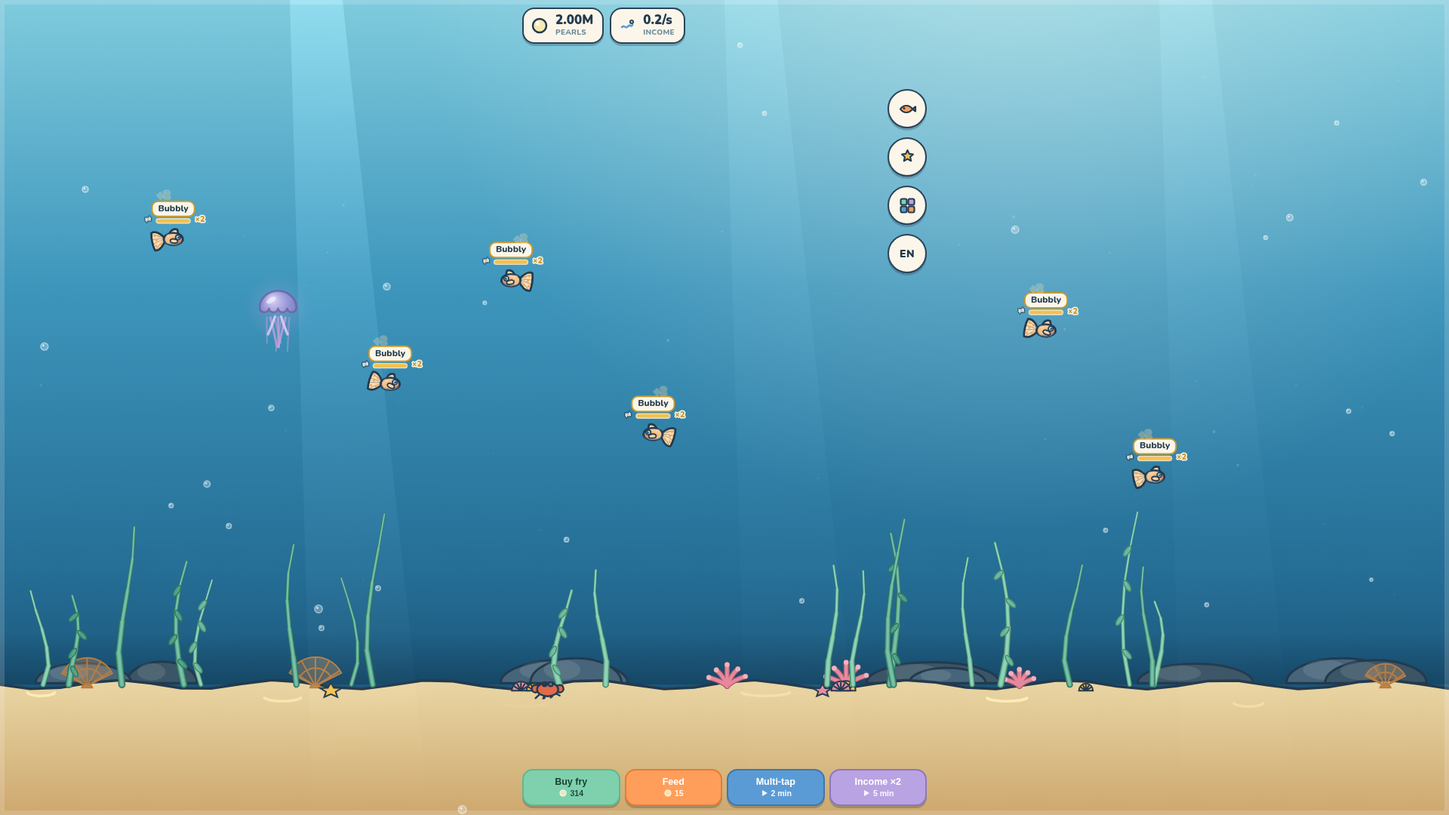
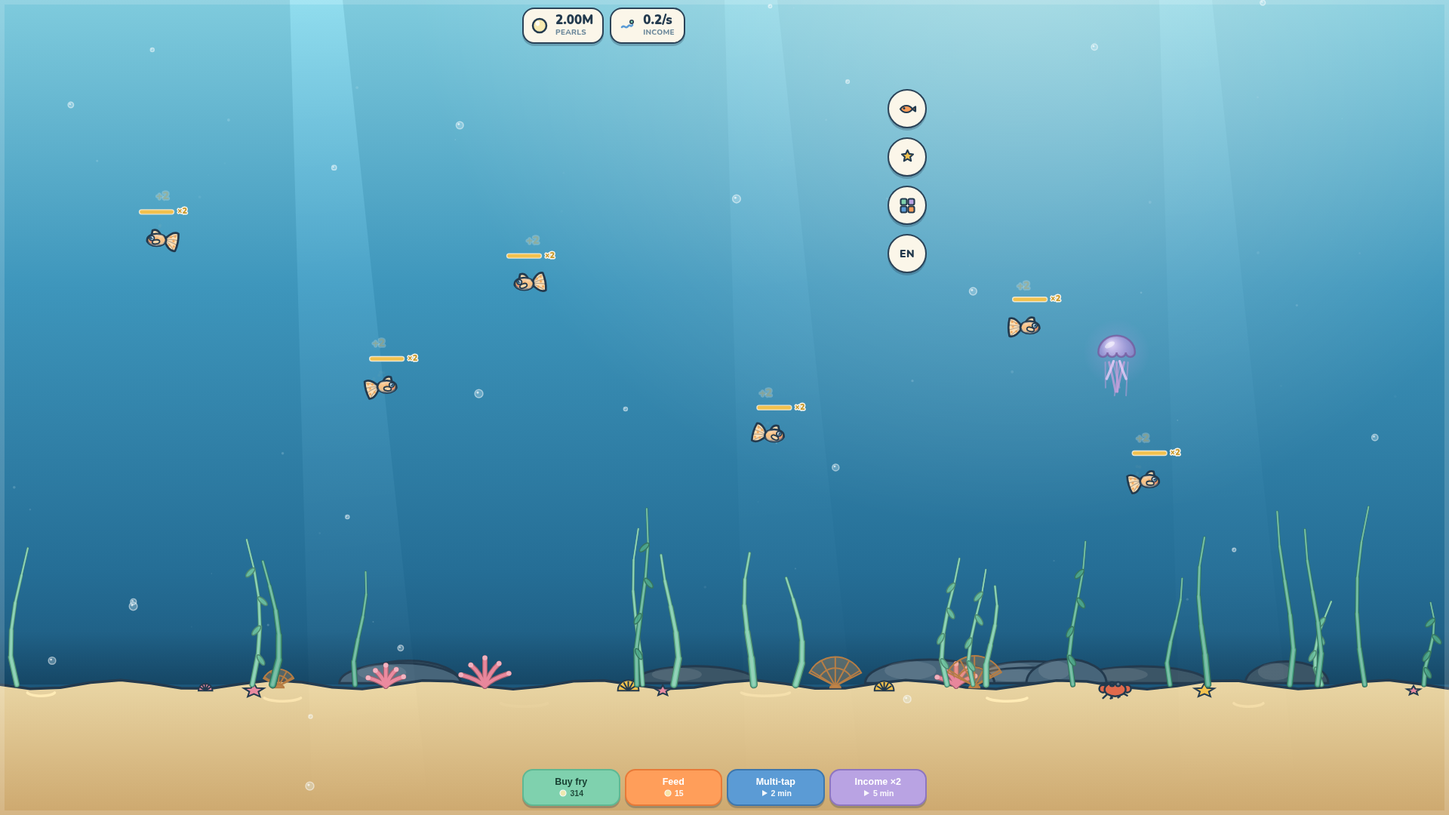
Аквариум: магазин по видам, чистый вид без плашек, реальные названия
- названия видов вместо уменьшительно-ласкательных: Гуппи, Золотая
  рыбка, Неон, Клоун, Моллинезия, Хирург, Сомик, Скалярия, Иглобрюх
  (EN: Guppy, Goldfish, Neon Tetra, Clownfish, Molly, Blue Tang,
  Catfish, Angelfish, Pufferfish)
- магазин: покупать можно любой уже открытый вид, а не только первый;
  цена уровня 30 × 3.2^lvl × 1.6^куплено — дороже, чем получить вид
  слиянием, поэтому мерж остаётся выгоднее, а покупка ускоряет старт;
  закрытые виды показаны с замком и подписью «получи его слиянием»,
  далёкие уровни в списке скрыты
- с рыбок убраны именные плашки: над рыбкой осталась только компактная
  шкала (голубая — рост малька, зелёная/золотая — сытость) с риской
  порога и бейджем ×2; имена видов остались в магазине и коллекции
- рыбки держатся плотнее (плашек больше нет) и ближе к краю экрана
- тексты карточки, CONSOLE-FIELDS и описания синхронизированы с новыми
  названиями и магазином; zip и скриншоты пересобраны

Claude-Session: https://claude.ai/code/session_01E1W4bJFq3d3FdtAVHT6PQt

diff --git a/index.html b/index.html
@@ -92,6 +92,10 @@
   .buy.owned{background:var(--mint);border-color:#5FB893}
 .hint{background:#EAF4F7;border:2px dashed var(--line);border-radius:12px;padding:9px 11px;
         font-weight:800;font-size:12.5px;color:var(--ink);margin-bottom:10px;line-height:1.25}
+  .hint.alt{background:#FFF3DF;border-style:solid;border-color:#E3C48A}
+  .row.locked{opacity:.6}
+  .row.locked .thumb{filter:grayscale(1) brightness(1.15)}
+  .lockico{font-size:20px;flex:none;padding:0 8px}
   .buy.wide{width:100%;margin-top:4px;padding:12px;font-size:15px}
   .coll{display:grid;grid-template-columns:repeat(3,1fr);gap:9px}
   .card{background:#FFF8E6;border:2.5px solid var(--line);border-radius:14px;padding:8px 4px 6px;
@@ -190,6 +194,10 @@ const STR = {
   lvl:{ru:"Ур.",en:"Lv."}, growing:{ru:"растут",en:"growing"}, adult:{ru:"взрослых",en:"adult"},
   perTap:{ru:"за тап",en:"per tap"},
   newFry:{ru:"Малёк поселился в аквариуме",en:"A fry joined your tank"},
+  locked:{ru:"Этот вид ещё не открыт — получи его слиянием",en:"Species not unlocked yet — merge to reveal it"},
+  inTank:{ru:"в аквариуме",en:"in tank"},
+  shopHint:{ru:"Покупать можно любой уже открытый вид. Новые открываются слиянием.",
+            en:"You can buy any species you have already unlocked. New ones come from merging."},
   newLevel:{ru:"Новый вид:",en:"New species:"},
   mergeHint:{ru:"Перетащи выросшую рыбку на такую же — получится рыбка выше уровнем",
              en:"Drag a grown fish onto a matching one to get a higher-level fish"},
@@ -207,15 +215,15 @@ const nm = sp => lang()==="ru"? sp.ru : sp.en;
 // ---------- Уровни рыб (мерж-цепочка: две выросшие рыбы Lv N -> малёк Lv N+1) ----------
 // tap — жемчуг за тап по взрослой рыбе; grow — сколько секунд растёт малёк этого уровня
 const LEVELS = [
-  {ru:'Пузырик', en:'Bubbly',   c1:'#F2A65A', c2:'#FFDDAF', shape:'guppy',  tap:1,     grow:5},
-  {ru:'Персик',  en:'Peachy',   c1:'#FF8C42', c2:'#FFC38A', shape:'gold',   tap:3,     grow:9},
-  {ru:'Нео',     en:'Neo',      c1:'#3BA7D6', c2:'#F25C69', shape:'neon',   tap:9,     grow:15},
-  {ru:'Пятныш',  en:'Spotty',   c1:'#FF7A2E', c2:'#FFFFFF', shape:'clown',  tap:26,    grow:24},
-  {ru:'Уголёк',  en:'Ember',    c1:'#4A4A57', c2:'#9AA0AC', shape:'molly',  tap:75,    grow:38},
-  {ru:'Небо',    en:'Sky',      c1:'#3E7CC4', c2:'#F2C14E', shape:'tang',   tap:210,   grow:58},
-  {ru:'Уса',     en:'Whiskers', c1:'#8A7358', c2:'#CBB89B', shape:'cat',    tap:600,   grow:85},
-  {ru:'Королёк', en:'Regal',    c1:'#F0E6C4', c2:'#4A6377', shape:'angel',  tap:1700,  grow:120},
-  {ru:'Пуфик',   en:'Puffy',    c1:'#C7D66B', c2:'#EEF5C6', shape:'puffer', tap:4800,  grow:170},
+  {ru:'Гуппи',        en:'Guppy',       c1:'#F2A65A', c2:'#FFDDAF', shape:'guppy',  tap:1,     grow:5},
+  {ru:'Золотая рыбка',en:'Goldfish',    c1:'#FF8C42', c2:'#FFC38A', shape:'gold',   tap:3,     grow:9},
+  {ru:'Неон',         en:'Neon Tetra',  c1:'#3BA7D6', c2:'#F25C69', shape:'neon',   tap:9,     grow:15},
+  {ru:'Клоун',        en:'Clownfish',   c1:'#FF7A2E', c2:'#FFFFFF', shape:'clown',  tap:26,    grow:24},
+  {ru:'Моллинезия',   en:'Molly',       c1:'#4A4A57', c2:'#9AA0AC', shape:'molly',  tap:75,    grow:38},
+  {ru:'Хирург',       en:'Blue Tang',   c1:'#3E7CC4', c2:'#F2C14E', shape:'tang',   tap:210,   grow:58},
+  {ru:'Сомик',        en:'Catfish',     c1:'#8A7358', c2:'#CBB89B', shape:'cat',    tap:600,   grow:85},
+  {ru:'Скалярия',     en:'Angelfish',   c1:'#F0E6C4', c2:'#4A6377', shape:'angel',  tap:1700,  grow:120},
+  {ru:'Иглобрюх',     en:'Pufferfish',  c1:'#C7D66B', c2:'#EEF5C6', shape:'puffer', tap:4800,  grow:170},
 ];
 const MAXLVL = LEVELS.length-1;
 const LV = l => LEVELS[Math.max(0,Math.min(MAXLVL,l))];
@@ -262,7 +270,10 @@ const ipsBase   = () => S.tank.reduce((a,f)=>a + LV(f.lvl).tap*0.04*f.g, 0);
 const ips       = () => ipsBase() * aerMult() * (x2On()?2:1);
 // цена малька растёт с каждой покупкой — главный сдерживающий фактор прогресса
 const priceMult = () => Math.max(0.5, 1 - 0.05*S.plant);
-const fishCost  = () => Math.max(1, Math.floor(30 * Math.pow(1.6, Math.max(0,S.bought-1)) * priceMult()));
+// цена рыбы уровня L: дороже, чем получить её мержем — покупка это ускорение, а не замена
+const fishCostAt = lvl => Math.max(1, Math.floor(30 * Math.pow(3.2, lvl) * Math.pow(1.6, Math.max(0,S.bought-1)) * priceMult()));
+const fishCost  = () => fishCostAt(0);
+const unlocked  = lvl => S.seen.includes(lvl);   // открытые виды доступны в магазине
 const foodCost  = () => Math.max(8, Math.ceil(tapBase()*2.5));
 const feedCost  = () => Math.floor(150 * Math.pow(1.7, S.feed));
 const aerCost   = () => Math.floor(400 * Math.pow(1.8, S.aer));
@@ -424,12 +435,14 @@ function doFeed(){
   refreshHud(); persist(true); sfx("tap");
   return true;
 }
-// Покупка малька — цена растёт с каждой покупкой
-function buyFish(){
-  const c=fishCost();
+// Покупка малька выбранного уровня (доступны только уже открытые виды)
+function buyFish(lvl){
+  lvl=Math.max(0,Math.min(MAXLVL, lvl|0));
+  if(!unlocked(lvl)){ toast(T("locked")); sfx("error"); return false; }
+  const c=fishCostAt(lvl);
   if(S.coins<c){ toast(T("need")); sfx("error"); return false; }
   S.coins-=c; S.bought++;
-  const f={lvl:0, g:0, sat:0};
+  const f={lvl, g:0, sat:0};
   S.tank.push(f); spawnSwimmer(f);
   if(S.tut===1) tutAdvance(2);
   refreshHud(); persist(true); sfx("buy");
@@ -511,25 +524,35 @@ function buildModal(kind){
   const body=$("mBody"); const can=(cost)=>S.coins>=cost;
   if(kind==='fish'){
     $("mTitle").textContent=T("fishTitle");
-    body.innerHTML='<div class="hint">'+T("mergeHint")+'</div>';
-    // сводка по уровням: сколько рыб каждого уровня и сколько уже выросло
+    body.innerHTML='<div class="hint">'+T("mergeHint")+'</div>'
+                  +'<div class="hint alt">'+T("shopHint")+'</div>';
     const byLvl={};
     S.tank.forEach(f=>{ (byLvl[f.lvl]=byLvl[f.lvl]||[]).push(f); });
-    Object.keys(byLvl).map(Number).sort((a,b)=>a-b).forEach(lvl=>{
-      const arr=byLvl[lvl], ready=arr.filter(grown).length;
-      const row=document.createElement('div'); row.className="row";
+    LEVELS.forEach((lv,lvl)=>{
+      const open=unlocked(lvl);
+      if(!open && lvl>maxLvl()+1) return;              // далёкие виды не показываем совсем
+      const arr=byLvl[lvl]||[], ready=arr.filter(grown).length;
+      const row=document.createElement('div'); row.className="row"+(open?"":" locked");
       const th=fishThumb(lvl); th.className="thumb"; row.appendChild(th);
       const info=document.createElement('div'); info.className="info";
-      info.innerHTML='<div class="nm">'+nm(LV(lvl))+' · '+T("lvl")+(lvl+1)+' ×'+arr.length+'</div>'
-        +'<div class="ds">+'+fmt(LV(lvl).tap)+' '+T("perTap")+' · '+T("adult")+': '+ready
-        +(arr.length-ready? ' · '+T("growing")+': '+(arr.length-ready):'')+'</div>';
+      info.innerHTML='<div class="nm">'+(open? nm(lv) : '???')+' · '+T("lvl")+(lvl+1)+'</div>'
+        +'<div class="ds">'+(open
+          ? '+'+fmt(lv.tap)+' '+T("perTap")+(arr.length? ' · '+T("inTank")+': '+arr.length
+              +(arr.length-ready? ' ('+T("growing")+': '+(arr.length-ready)+')':'') : '')
+          : T("locked"))+'</div>';
       row.appendChild(info);
+      if(open){
+        const c=fishCostAt(lvl);
+        const b=document.createElement('button'); b.className="buy"+(can(c)?"":" can-not");
+        b.textContent=fmt(c);
+        b.onclick=()=>{ if(buyFish(lvl)) buildModal('fish'); };
+        row.appendChild(b);
+      } else {
+        const lock=document.createElement('div'); lock.className="lockico"; lock.textContent='🔒';
+        row.appendChild(lock);
+      }
       body.appendChild(row);
     });
-    const b=document.createElement('button'); b.className="buy wide"+(can(fishCost())?"":" can-not");
-    b.textContent=T("buy")+" · "+fmt(fishCost());
-    b.onclick=()=>{ if(buyFish()) buildModal('fish'); };
-    body.appendChild(b);
   } else if(kind==='up'){
     $("mTitle").textContent=T("upTitle"); body.innerHTML="";
     const ups=[
@@ -867,10 +890,10 @@ function updateWorld(t,dt){
   });
   // рыбки не заплывают под боковую панель кнопок — их плашки остаются видимыми
   swimmers.forEach(s=>{
-    if(s.y < sideZoneBottom() && s.x > W-110){ s.x=W-110; s.dir=-1; }
+    if(s.y < sideZoneBottom() && s.x > W-76){ s.x=W-76; s.dir=-1; }
   });
   // мягкое расталкивание: рыбки не слипаются, именные плашки остаются читаемыми
-  const MINX=95, MINY=46, k=Math.min(1,dt*3);
+  const MINX=76, MINY=40, k=Math.min(1,dt*3);
   for(let i=0;i<swimmers.length;i++){
     for(let j=i+1;j<swimmers.length;j++){
       const a=swimmers[i], b=swimmers[j];
@@ -1282,37 +1305,28 @@ function drawSwimmers(t){
     if(s===dragSw){ ctx.globalAlpha=0.9; }
     drawFish(ctx, LV(f.lvl), s.x, s.y, sc, s.dir, wag);
     ctx.restore();
-    // именная плашка + шкала (у малька — рост, у взрослой — сытость)
-    const label=nm(LV(f.lvl))+(grown(f)?'':' 🌱').replace('🌱','');
-    ctx.font='800 12px Nunito, sans-serif'; ctx.textAlign='center'; ctx.textBaseline='middle';
-    const wpx=ctx.measureText(label).width+16, ny=s.y-34*gscale-6;
-    const sated=isSated(f), adult=grown(f);
-    ctx.fillStyle=PAPER; ctx.strokeStyle=sated&&adult?'#C99A2E':INK; ctx.lineWidth=2;
-    roundRect(ctx, s.x-wpx/2, ny-10, wpx, 20, 8); ctx.fill(); ctx.stroke();
-    ctx.fillStyle=INK; ctx.fillText(label, s.x, ny);
-    const bw2=Math.max(30,wpx*0.8), bh2=6, val=adult? f.sat : f.g;
-    ctx.fillStyle='rgba(16,34,50,0.55)';
-    roundRect(ctx, s.x-bw2/2, ny+13, bw2, bh2, 3); ctx.fill();
+    // над рыбкой — только компактная шкала (у малька рост, у взрослой сытость), без имени
+    const adult=grown(f), sated=isSated(f);
+    const bw2=Math.max(26, 46*gscale), bh2=6, ny=s.y-30*gscale-10;
+    const val=adult? f.sat : f.g;
+    ctx.textAlign='center'; ctx.textBaseline='middle';
+    ctx.fillStyle='rgba(16,34,50,0.5)';
+    roundRect(ctx, s.x-bw2/2, ny, bw2, bh2, 3); ctx.fill();
     if(val>0.02){
       ctx.fillStyle=!adult? '#8FD0F0' : (sated?'#F2C14E':'#7FD1AE');
-      roundRect(ctx, s.x-bw2/2, ny+13, bw2*val, bh2, 3); ctx.fill();
+      roundRect(ctx, s.x-bw2/2, ny, bw2*val, bh2, 3); ctx.fill();
     }
-    ctx.strokeStyle='rgba(251,246,233,0.75)'; ctx.lineWidth=1.4;
-    roundRect(ctx, s.x-bw2/2, ny+13, bw2, bh2, 3); ctx.stroke();
+    ctx.strokeStyle='rgba(251,246,233,0.8)'; ctx.lineWidth=1.4;
+    roundRect(ctx, s.x-bw2/2, ny, bw2, bh2, 3); ctx.stroke();
     if(adult && !sated){ // риска порога сытости: докорми до неё — начнётся ×2
       const tx=s.x-bw2/2+bw2*SAT_FULL;
-      ctx.strokeStyle='rgba(242,193,78,0.9)'; ctx.lineWidth=1.6;
-      ctx.beginPath(); ctx.moveTo(tx,ny+12); ctx.lineTo(tx,ny+13+bh2+1); ctx.stroke();
+      ctx.strokeStyle='rgba(242,193,78,0.95)'; ctx.lineWidth=1.6;
+      ctx.beginPath(); ctx.moveTo(tx,ny-1); ctx.lineTo(tx,ny+bh2+1); ctx.stroke();
     }
     if(adult && sated){
       ctx.font='900 11px Nunito, sans-serif';
-      ctx.lineWidth=3; ctx.strokeStyle=PAPER; ctx.strokeText('×2', s.x+bw2/2+13, ny+15);
-      ctx.fillStyle='#C99A2E'; ctx.fillText('×2', s.x+bw2/2+13, ny+15);
-    }
-    if(adult && f.lvl<MAXLVL){ // выросшую можно мержить — маленькая метка
-      ctx.font='900 10px Nunito, sans-serif'; ctx.fillStyle='rgba(251,246,233,0.9)';
-      ctx.strokeStyle='rgba(16,34,50,0.5)'; ctx.lineWidth=2.5;
-      ctx.strokeText('⇄', s.x-bw2/2-11, ny+15); ctx.fillText('⇄', s.x-bw2/2-11, ny+15);
+      ctx.lineWidth=3; ctx.strokeStyle=PAPER; ctx.strokeText('×2', s.x+bw2/2+11, ny+3);
+      ctx.fillStyle='#C99A2E'; ctx.fillText('×2', s.x+bw2/2+11, ny+3);
     }
   });
 }
@@ -1413,14 +1427,17 @@ window.render_game_to_text = () => JSON.stringify({
   feed:S.feed, aer:S.aer, plant:S.plant,
   tapGain:tapGain(), best:S.best, x2:x2On(), multi:multiOn(),
   fishCost:fishCost(), foodCost:foodCost(), feedFill:feedFill(),
+  shopLevels:LEVELS.map((lv,i)=>({lvl:i, open:unlocked(i), cost:fishCostAt(i)})),
   tank:S.tank.map(f=>({lvl:f.lvl, g:Math.round(f.g*1000)/1000, sat:Math.round(f.sat*1000)/1000})),
   grownCount:S.tank.filter(grown).length,
   satMin:Math.min(...S.tank.map(f=>f.sat)), tut:S.tut
 });
 window.advanceTime = ms => { S.coins += ips()*(ms/1000); refreshHud(); };
 window.__grant = n => { S.coins+=n; refreshHud(); };
-window.__buyFish = () => buyFish();
-window.__buyNextFish = () => buyFish();          // совместимость со старым хуком
+window.__buyFish = (lvl=0) => buyFish(lvl);
+window.__buyNextFish = () => buyFish(0);         // совместимость со старым хуком
+window.__fishCostAt = lvl => fishCostAt(lvl);
+window.__unlocked = lvl => unlocked(lvl);
 window.__buyUp = k => buyUp(k);
 window.__feed = () => doFeed();
 window.__tap = () => doCollect();                 // сбор со всех (как при мульти-тапе)

diff --git a/store-assets/PUBLICATION.md b/store-assets/PUBLICATION.md
@@ -22,9 +22,11 @@
 - **Мальки** покупаются за жемчуг; цена каждого следующего растёт (30 × 1.6ⁿ) — это основной
   сдерживающий фактор прогресса. Малёк меньше взрослой рыбы, у него голубая шкала роста; рыба первого
   уровня растёт 5 секунд, каждый следующий уровень — дольше (до ~170 c).
+- **Магазин**: уже открытые виды можно докупать за жемчуг (цена уровня × 3.2 за ступень), закрытые
+  показаны с замком — новые виды открываются только слиянием.
 - **Слияние**: выросшую рыбу можно перетащить пальцем на другую выросшую рыбу того же уровня —
   они объединяются в малька следующего уровня. Валидная цель подсвечивается кругом. Так открываются
-  все 9 видов: Пузырик → Персик → Нео → Пятныш → Уголёк → Небо → Уса → Королёк → Пуфик.
+  все 9 видов: гуппи → золотая рыбка → неон → клоун → моллинезия → хирург → сомик → скалярия → иглобрюх.
 - **Корм** покупается за жемчуг: хлопья тонут, рыбки едят их не спеша (одна штука в ~0.9 c, до полной
   сытости нужно ~7 хлопьев). Сытая рыба платит **×2** за тап и растёт в 1.6 раза быстрее. Сытость
   держится около минуты и плавно тает, в том числе пока игра закрыта.
@@ -66,22 +68,22 @@
 **RU:**
 Тёплый Аквариум — уютный мерж-кликер про домашний аквариум. Тапайте по рыбке — она приносит жемчуг, и над ней всплывает награда. Тап по воде рыбок не тревожит: по ней просто расходится рябь.
 
-На жемчуг покупайте мальков. Малёк подрастает всего за несколько секунд, а когда становится взрослым — перетащите его на такую же взрослую рыбку, и они объединятся в рыбку следующего уровня. Так из простых Пузыриков вырастают Персик, Нео, Пятныш, Уголёк, Небо, Уса, Королёк и колючий Пуфик — девять видов в коллекции.
+На жемчуг покупайте мальков. Малёк подрастает всего за несколько секунд, а когда становится взрослым — перетащите его на такую же взрослую рыбку, и они объединятся в рыбку следующего уровня. Так из простых гуппи получаются золотая рыбка, неон, клоун, моллинезия, хирург, сомик, скалярия и колючий иглобрюх — девять видов в коллекции.
 
 Корм тоже покупается за жемчуг: хлопья тонут, рыбки не спеша едят и наполняют шкалу сытости. Сытая рыбка платит вдвое больше за тап и быстрее растёт, поэтому кормить аквариум выгодно перед активной сессией. Сытость постепенно тает — загляните покормить питомцев снова.
 
-Посмотрите короткое видео — и два полных минуты любой тап будет собирать жемчуг сразу со всех рыбок. Улучшайте аквариум: сытный корм насыщает сильнее, аэратор повышает фоновый доход, водоросли удешевляют мальков. Заходите каждый день за подарком.
+Посмотрите короткое видео — и целые две минуты любой тап будет собирать жемчуг сразу со всех рыбок. Открытые виды можно докупать в магазине за жемчуг, а новые открываются только слиянием. Улучшайте аквариум: сытный корм насыщает сильнее, аэратор повышает фоновый доход, водоросли удешевляют мальков. Заходите каждый день за подарком.
 
 Живой подводный мир — лучи света, колышущиеся водоросли, кораллы, проплывающая медуза и краб на дне — успокаивает и радует. Короткое обучение введёт в курс за полминуты.
 
 **EN:**
 Cozy Aquarium is a warm little merge-clicker about a home fish tank. Tap a fish and it pays out pearls, with the reward popping up above it. Tapping the water leaves your fish alone — it just sends out a ripple.
 
-Spend pearls on fry. A fry grows up in seconds, and once it is an adult you can drag it onto a matching adult fish to merge them into the next level. Simple Bubblies grow into Peachy, Neo, Spotty, Ember, Sky, Whiskers, Regal and the spiky Puffy — nine species to collect.
+Spend pearls on fry. A fry grows up in seconds, and once it is an adult you can drag it onto a matching adult fish to merge them into the next level. Simple guppies become a goldfish, a neon tetra, a clownfish, a molly, a blue tang, a catfish, an angelfish and a spiky pufferfish — nine species to collect.
 
 Food costs pearls too: the flakes sink, fish eat unhurriedly and fill their satiety bar. A well-fed fish pays double per tap and grows faster, so feeding the tank before an active session pays off. Satiety slowly fades, so drop by to feed your pets again.
 
-Watch a short video and for two whole minutes every tap collects pearls from all your fish at once. Upgrade the tank: rich food is more filling, the aerator raises background income, water plants make fry cheaper. Come back daily for a gift.
+Watch a short video and for two whole minutes every tap collects pearls from all your fish at once. Species you have unlocked can be bought again in the shop, while new ones come only from merging. Upgrade the tank: rich food is more filling, the aerator raises background income, water plants make fry cheaper. Come back daily for a gift.
 
 A living underwater world — light rays, swaying plants, corals, a drifting jellyfish and a crab on the sand — keeps things calm and cheerful. A short tutorial gets you going in half a minute.
 
@@ -112,7 +114,7 @@ A living underwater world — light rays, swaying plants, corals, a drifting jel
 Кадры (RU=EN по составу, отличается только язык HUD):
 1. `d1-start` — самое начало: аквариум со стартовой рыбкой, карточка обучения, первый сбор жемчуга.
 2. `d2-feeding` — накормленный аквариум: золотые шкалы сытости, бейджи ×2 и двойные награды над рыбками.
-3. `d3-shop` — открыта панель «Рыбки аквариума»: подсказка про слияние, сводка по уровням, покупка малька.
+3. `d3-shop` — открыт магазин «Рыбки аквариума»: открытые виды с ценами, закрытые под замком, подсказка про слияние.
 4. `d4-upgrades` — открыты «Улучшения аквариума» (Сытный корм / Аэратор / Водоросли).
 5. `d5-collection` — открыта коллекция рыб (часть обнаружена, часть скрыта «?»), полный аквариум.
 

diff --git a/store-assets/CONSOLE-FIELDS.md b/store-assets/CONSOLE-FIELDS.md
@@ -57,14 +57,14 @@
 Тапай рыбок, расти мальков и объединяй их в новые виды!
 ```
 
-### Об игре (941/1000)
+### Об игре (944/1000)
 
 ```
 Тёплый Аквариум — уютный мерж-кликер про домашний аквариум.
 
 Тапайте по рыбке — она приносит жемчуг, и над ней всплывает награда. Тап по воде рыбок не тревожит: по ней просто расходится рябь.
 
-На жемчуг покупайте мальков. Малёк подрастает за несколько секунд, а когда становится взрослым — перетащите его на такую же взрослую рыбку, и они объединятся в рыбку следующего уровня. Так из простых Пузыриков получаются Персик, Нео, Пятныш и ещё пять видов — всего девять в коллекции.
+На жемчуг покупайте мальков. Малёк подрастает за несколько секунд, а когда становится взрослым — перетащите его на такую же взрослую рыбку, и они объединятся в рыбку следующего уровня. Так из простых гуппи получаются золотая рыбка, неон, клоун и ещё пять видов — всего девять в коллекции.
 
 Корм тоже покупается за жемчуг: хлопья тонут, рыбки не спеша едят и наполняют шкалу сытости. Сытая рыбка платит вдвое больше за тап и быстрее растёт. Сытость постепенно тает — загляните покормить питомцев снова.
 
@@ -73,14 +73,14 @@
 Живой подводный мир — лучи света, водоросли, кораллы, медуза и краб на дне — успокаивает и радует.
 ```
 
-### Как играть (974/1000)
+### Как играть (990/1000)
 
 ```
 1. Тапайте по рыбке — за каждый тап она приносит жемчуг. Тап по пустой воде дохода не даёт, только рябь.
 
-2. Нажмите «Купить», чтобы завести малька. Он меньше взрослой рыбы, и под его именем видна голубая шкала роста. Малёк первого уровня растёт около пяти секунд, рыбы старших уровней — дольше.
+2. Нажмите «Купить», чтобы завести малька; в магазине доступны все уже открытые виды. Малёк меньше взрослой рыбы, над ним видна голубая шкала роста: первый уровень растёт около пяти секунд, старшие — дольше.
 
-3. Когда две рыбки одного уровня выросли, зажмите одну и перетащите её на вторую — подходящая цель подсветится кругом. Отпустите: рыбки объединятся в малька следующего уровня, а новый вид попадёт в коллекцию.
+3. Когда две рыбки одного уровня выросли, зажмите одну и перетащите на вторую — цель подсветится кругом. Отпустите: рыбки объединятся в малька следующего уровня, а новый вид попадёт в коллекцию и в магазин.
 
 4. Нажмите «Покормить», чтобы бросить корм. Хлопья тонут, рыбки подплывают и едят их не спеша. Когда зелёная шкала дойдёт до золотой риски, рыбка станет сытой: она платит вдвое больше за тап и растёт быстрее. Сытость постепенно тает.
 
@@ -111,14 +111,14 @@ Cozy Aquarium is a merge-clicker about fish: tap for pearls, grow fry, merge mat
 Tap fish, grow fry and merge them into new species!
 ```
 
-### Об игре (930/1000)
+### Об игре (944/1000)
 
 ```
 Cozy Aquarium is a warm little merge-clicker about a home fish tank.
 
 Tap a fish and it pays out pearls, with the reward popping up above it. Tapping the water leaves your fish alone — it just sends out a ripple.
 
-Spend pearls on fry. A fry grows up in seconds, and once it is an adult you can drag it onto a matching adult fish to merge them into the next level. Simple Bubblies grow into Peachy, Neo, Spotty and five more — nine species to collect.
+Spend pearls on fry. A fry grows up in seconds, and once it is an adult you can drag it onto a matching adult fish to merge them into the next level. Simple guppies become a goldfish, a neon tetra, a clownfish and five more — nine species to collect.
 
 Food costs pearls too: the flakes sink, fish eat unhurriedly and fill their satiety bar. A well-fed fish pays double per tap and grows faster. Satiety slowly fades, so drop by to feed your pets again.
 
@@ -127,12 +127,12 @@ Upgrade the tank: rich food is more filling, the aerator raises background incom
 A living underwater world — light rays, plants, corals, a jellyfish and a crab on the sand — keeps things calm and cheerful.
 ```
 
-### Как играть (953/1000)
+### Как играть (980/1000)
 
 ```
 1. Tap a fish — every tap pays out pearls. Tapping empty water gives nothing, just a ripple.
 
-2. Press "Buy fry" to add a fry. It is smaller than an adult fish and has a blue growth bar under its name. A level 1 fry grows in about five seconds; higher levels take longer.
+2. Press "Buy fry" to add a fry; the shop sells every species you have unlocked. A fry is smaller than an adult and shows a blue growth bar: level 1 grows in about five seconds, higher levels take longer.
 
 3. When two fish of the same level are grown up, press and drag one onto the other — a valid target lights up with a ring. Release to merge them into a fry of the next level and unlock a new species in your collection.
 
